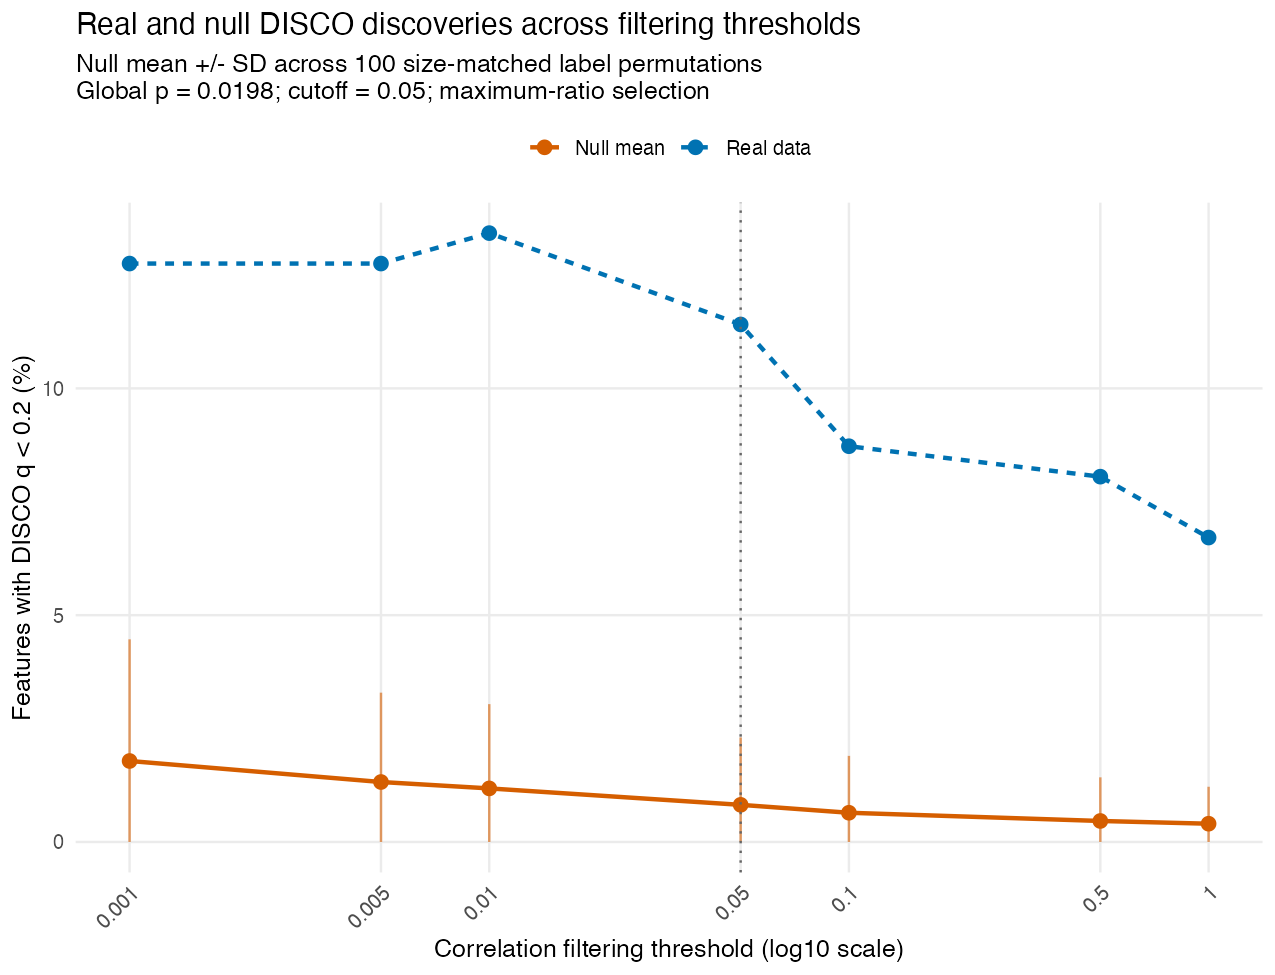
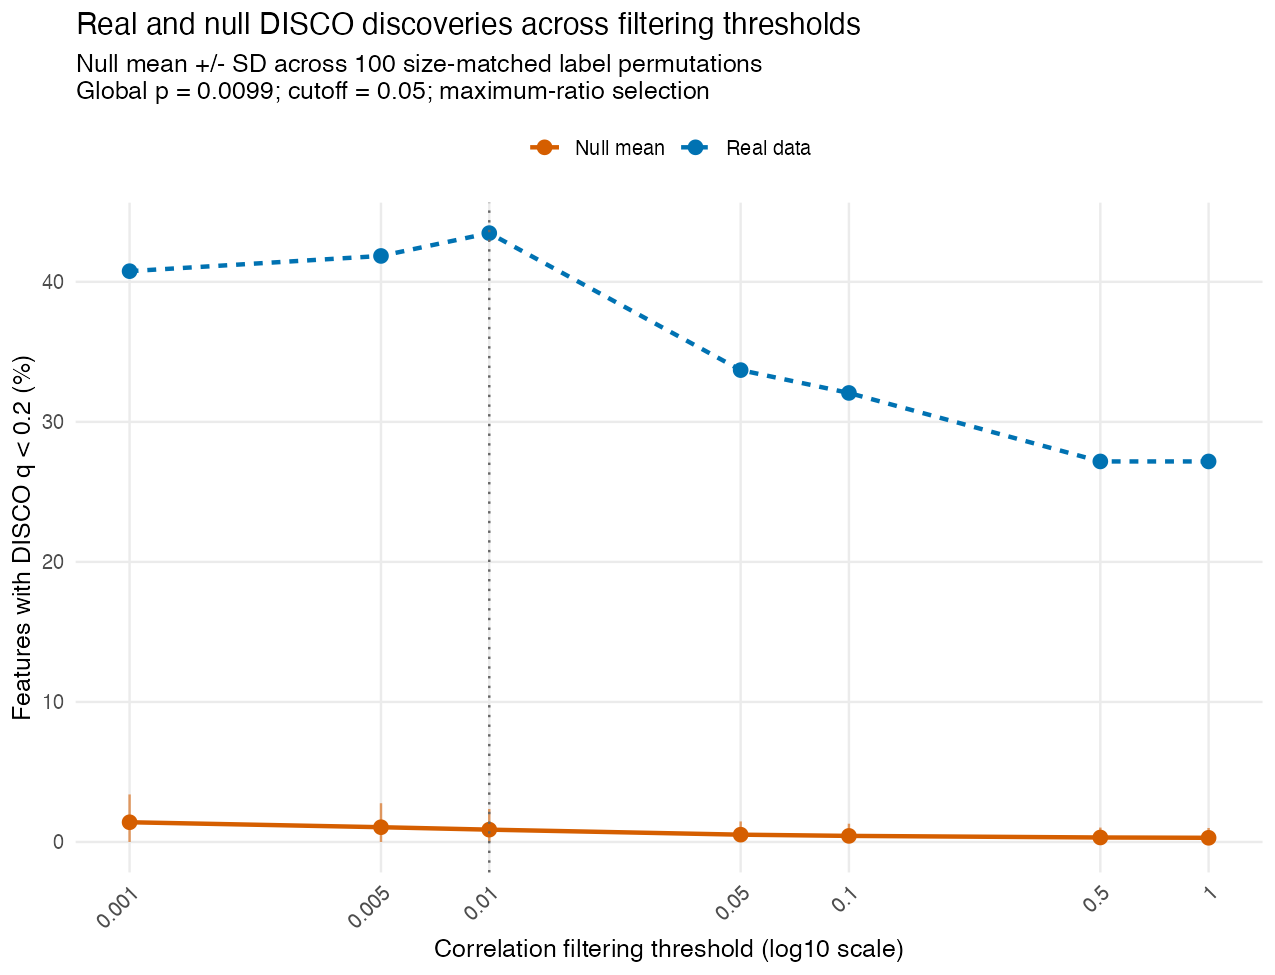
Use group-wise prevalence and covariate adjustment in Yachida examples

diff --git a/README.md b/README.md
@@ -114,16 +114,18 @@ through
 This example uses:
 
 - Relative abundances (`counts = FALSE`).
-- Features present in **≥20% of samples across the combined CRC/control
-  cohort**.
+- Features present in **≥10% of samples in each group**: a feature must
+  pass separately in both healthy controls and CRC.
 - Zero replacement with **half each feature’s minimum positive
   abundance**, estimated across that cohort after prevalence filtering.
 - **CLR normalization** within each sample, separately for each
   modality.
 - After CLR, each feature is residualized against **age, gender, and
-  BMI** in one linear model fitted across the combined CRC/control
-  cohort. **Disease is not included** in this model. The same residuals
-  feed the real comparison and all label permutations.
+  BMI** using **separate models within healthy controls and CRC**. Each
+  group has its own intercept and covariate coefficients. Models are
+  fitted once within the original groups; the resulting residuals feed
+  the real comparison and all label permutations, without refitting the
+  covariate models after shuffling.
 - 100 label permutations, q cutoff 0.2, and global p-value cutoff 0.05.
 
 Install the example dependencies if needed:
@@ -145,10 +147,11 @@ when inputs, settings, and source-code hashes match.
 ``` r
 settings <- list(
   n_resamples = 100L, random_seed = 1L, cooccur = 10L, adj_method = "BY",
-  q_value = 0.2, global_p_cutoff = 0.05, prevalence_cutoff = 0.2,
-  covariate_adjustment = "pooled ~ age + gender + BMI; no disease term"
+  q_value = 0.2, global_p_cutoff = 0.05, prevalence_cutoff = 0.1,
+  prevalence_scope = "at least 10% in each of healthy and CRC",
+  covariate_adjustment = "separate healthy and CRC models: ~ age + gender + BMI"
 )
-results_dir <- file.path(analysis_dir, "yachida_readme_adjusted_results")
+results_dir <- file.path(analysis_dir, "yachida_readme_groupwise_10pct_results")
 dir.create(results_dir, recursive = TRUE, showWarnings = FALSE)
 source_md5 <- readme_source_hashes(repo_dir)
 ```
@@ -198,20 +201,25 @@ The same preprocessing helper is used for taxa and pathways:
 
 ``` r
 # Samples are rows; features are columns. Apply independently per modality.
-preprocess_abundance <- function(x, prevalence_cutoff = 0.20) {
+preprocess_abundance <- function(x, group, prevalence_cutoff = 0.10) {
   stopifnot(
     is.matrix(x), is.numeric(x), nrow(x) > 0L, ncol(x) > 0L,
     all(is.finite(x)), all(x >= 0), all(rowSums(x) > 0),
     !is.null(rownames(x)), !anyDuplicated(rownames(x)),
     !is.null(colnames(x)), !anyDuplicated(colnames(x)),
     length(prevalence_cutoff) == 1L, is.finite(prevalence_cutoff),
-    prevalence_cutoff > 0, prevalence_cutoff <= 1
+    prevalence_cutoff > 0, prevalence_cutoff <= 1,
+    identical(rownames(x), names(group)), !anyNA(group),
+    setequal(as.character(group), c("healthy", "CRC"))
   )
 
-  # Convert the full profile to proportions, then filter across both groups.
+  # Require the prevalence cutoff separately in BOTH original groups.
   x <- sweep(x, 1, rowSums(x), "/")
-  prevalence <- colMeans(x > 0)
-  keep <- prevalence >= prevalence_cutoff
+  prevalence <- cbind(
+    healthy = colMeans(x[group == "healthy", , drop = FALSE] > 0),
+    CRC = colMeans(x[group == "CRC", , drop = FALSE] > 0)
+  )
+  keep <- apply(prevalence >= prevalence_cutoff, 1, all)
   if (sum(keep) < 2L) stop("Fewer than two features pass the prevalence filter.")
   retained <- x[, keep, drop = FALSE]
 
@@ -230,7 +238,8 @@ preprocess_abundance <- function(x, prevalence_cutoff = 0.20) {
     retained_relative_abundance = retained,
     imputed_abundance = imputed,
     prevalence = data.frame(
-      feature = names(prevalence), prevalence = unname(prevalence), retained = keep
+      feature = rownames(prevalence), prevalence, retained = unname(keep),
+      row.names = NULL
     ),
     half_minimum = data.frame(feature = names(half_min), replacement = unname(half_min))
   )
@@ -238,38 +247,49 @@ preprocess_abundance <- function(x, prevalence_cutoff = 0.20) {
 ```
 
 The covariate-adjustment helper fits a separate response model for each
-feature with a shared design matrix. Residuals keep the original sample
-and feature names.
+feature within each group. Residuals keep the original sample and
+feature names.
 
 ``` r
-# Fit one model per feature over the combined cohort, without a disease term.
-residualize_abundance <- function(clr, metadata) {
+# Fit independent age/gender/BMI models within the original disease groups.
+residualize_abundance <- function(clr, metadata, group) {
   stopifnot(identical(rownames(clr), rownames(metadata)), all(is.finite(clr)),
             is.numeric(metadata$age), is.numeric(metadata$BMI),
-            all(is.finite(metadata$age)), all(is.finite(metadata$BMI)))
-  model_data <- metadata
-  model_data$gender <- factor(trimws(as.character(model_data$gender)))
-  if (anyNA(model_data$gender) || any(!nzchar(as.character(model_data$gender))) ||
-      nlevels(model_data$gender) < 2L) {
-    stop("At least two non-missing gender levels are required.")
+            all(is.finite(metadata$age)), all(is.finite(metadata$BMI)),
+            identical(rownames(clr), names(group)), !anyNA(group),
+            setequal(as.character(group), c("healthy", "CRC")))
+  residuals <- matrix(NA_real_, nrow(clr), ncol(clr), dimnames = dimnames(clr))
+  models <- list()
+  for (group_name in c("healthy", "CRC")) {
+    rows <- which(group == group_name)
+    model_data <- metadata[rows, , drop = FALSE]
+    model_data$gender <- factor(trimws(as.character(model_data$gender)))
+    if (anyNA(model_data$gender) || any(!nzchar(as.character(model_data$gender))) ||
+        nlevels(model_data$gender) < 2L) {
+      stop("At least two non-missing gender levels are required in ", group_name, ".")
+    }
+    design <- stats::model.matrix(~ age + gender + BMI, data = model_data)
+    fit <- stats::lm.fit(design, clr[rows, , drop = FALSE])
+    if (fit$rank < ncol(design) || nrow(design) <= fit$rank) {
+      stop("Covariate model requires full rank and positive residual degrees of freedom in ",
+           group_name, ".")
+    }
+    residuals[rows, ] <- fit$residuals
+    models[[group_name]] <- list(
+      coefficients = fit$coefficients, design = design,
+      sample_ids = rownames(model_data), residual_df = nrow(design) - fit$rank
+    )
   }
-  design <- stats::model.matrix(~ age + gender + BMI, data = model_data)
-  fit <- stats::lm.fit(design, clr)
-  if (fit$rank < ncol(design) || nrow(design) <= fit$rank) {
-    stop("Covariate model must have full rank and positive residual degrees of freedom.")
-  }
-  residuals <- fit$residuals
-  dimnames(residuals) <- dimnames(clr)
   stopifnot(all(is.finite(residuals)))
-  list(residuals = residuals, coefficients = fit$coefficients,
-       design = design, residual_df = nrow(design) - fit$rank)
+  list(residuals = residuals, models = models)
 }
 ```
 
 ``` r
-taxa_prepared <- preprocess_abundance(taxa, settings$prevalence_cutoff)
+taxa_prepared <- preprocess_abundance(taxa, taxa_group, settings$prevalence_cutoff)
 taxa_adjusted <- residualize_abundance(
-  taxa_prepared$clr, sample_metadata[rownames(taxa_prepared$clr), , drop = FALSE]
+  taxa_prepared$clr, sample_metadata[rownames(taxa_prepared$clr), , drop = FALSE],
+  taxa_group
 )
 single_dir <- file.path(results_dir, "taxa")
 single_input <- list(
@@ -302,25 +322,25 @@ missing covariates.
 
 | control | CRC | retained_taxa |
 |--------:|----:|--------------:|
-|     245 | 258 |           149 |
+|     245 | 258 |           184 |
 
-Global p-value: **0.0198**. Selected threshold: **0.05**. Taxa with
-DISCO q \<0.2 at the selected threshold: **17**.
+Global p-value: **0.009901**. Selected threshold: **0.01**. Taxa with
+DISCO q \<0.2 at the selected threshold: **80**.
 
 Top 10 taxa by DISCO q-value, breaking ties by p-value:
 
-| Taxon                       | DISCO p  | DISCO q  | Comparisons |
-|:----------------------------|:---------|:---------|------------:|
-| Parvimonas micra            | 7.10e-07 | 4.62e-04 |         113 |
-| Actinomyces sp. HMSC035G02  | 1.11e-06 | 4.62e-04 |         111 |
-| \[Eubacterium\] sulci       | 2.87e-06 | 7.95e-04 |          97 |
-| Actinomyces sp. ICM47       | 5.41e-06 | 1.12e-03 |          99 |
-| Tyzzerella nexilis          | 1.70e-05 | 2.83e-03 |         114 |
-| Megamonas funiformis        | 1.80e-04 | 2.50e-02 |          78 |
-| Fusobacterium mortiferum    | 2.19e-04 | 2.61e-02 |          90 |
-| Megasphaera micronuciformis | 2.92e-04 | 3.03e-02 |          99 |
-| Odoribacter splanchnicus    | 6.11e-04 | 5.53e-02 |          85 |
-| Streptococcus vestibularis  | 6.65e-04 | 5.53e-02 |          87 |
+| Taxon                      | DISCO p  | DISCO q  | Comparisons |
+|:---------------------------|:---------|:---------|------------:|
+| Parvimonas micra           | 3.43e-07 | 3.31e-04 |         121 |
+| Fusobacterium ulcerans     | 1.08e-06 | 3.31e-04 |         133 |
+| Actinomyces sp. S6-Spd3    | 1.08e-06 | 3.31e-04 |         134 |
+| Actinomyces sp. HMSC035G02 | 1.24e-06 | 3.31e-04 |         128 |
+| Clostridium disporicum     | 5.48e-06 | 1.17e-03 |         110 |
+| Lactobacillus rogosae      | 8.43e-06 | 1.36e-03 |          95 |
+| Actinomyces sp. ICM47      | 8.93e-06 | 1.36e-03 |         119 |
+| Acidaminococcus intestini  | 1.13e-05 | 1.50e-03 |          87 |
+| \[Eubacterium\] sulci      | 1.26e-05 | 1.50e-03 |          98 |
+| Clostridium sp. CAG:299    | 1.60e-05 | 1.71e-03 |         116 |
 
 The first plot compares real discovery percentages with the null mean ±
 SD. The second shows the ratio used to select the threshold.
@@ -342,9 +362,9 @@ controls. The first modality is taxa, so the DISCO scores describe taxa
 whose relationships with pathways differ between groups. Pathways are
 unstratified community totals; `UNMAPPED` and `UNINTEGRATED` rows are
 removed. Both modalities are restricted to common usable samples, then
-prevalence-filtered and normalized separately using the same ≥20%,
+prevalence-filtered and normalized separately using the same ≥10%,
 half-minimum, CLR workflow above. **Both taxa and pathways** are then
-residualized against age, gender, and BMI using the pooled model above,
+residualized against age, gender, and BMI separately within each group,
 and DISCO compares correlations between those residuals.
 
 ``` r
@@ -362,11 +382,13 @@ two_group <- group[common_ids]
 if (any(table(factor(two_group, levels = c("healthy", "CRC"))) < settings$cooccur)) {
   stop("Each group requires at least cooccur samples.")
 }
-two_taxa <- preprocess_abundance(taxa[common_ids, , drop = FALSE], settings$prevalence_cutoff)
-two_pathways <- preprocess_abundance(pathways[common_ids, , drop = FALSE], settings$prevalence_cutoff)
+two_taxa <- preprocess_abundance(taxa[common_ids, , drop = FALSE], two_group,
+                                 settings$prevalence_cutoff)
+two_pathways <- preprocess_abundance(pathways[common_ids, , drop = FALSE], two_group,
+                                     settings$prevalence_cutoff)
 two_metadata <- sample_metadata[common_ids, , drop = FALSE]
-two_taxa_adjusted <- residualize_abundance(two_taxa$clr, two_metadata)
-two_pathways_adjusted <- residualize_abundance(two_pathways$clr, two_metadata)
+two_taxa_adjusted <- residualize_abundance(two_taxa$clr, two_metadata, two_group)
+two_pathways_adjusted <- residualize_abundance(two_pathways$clr, two_metadata, two_group)
 two_dir <- file.path(results_dir, "taxa_pathways")
 two_input <- list(
   data1 = list(two_taxa_adjusted$residuals[two_group == "healthy", , drop = FALSE],
@@ -396,7 +418,7 @@ if (is.null(two)) {
 
 | control | CRC | retained_taxa | retained_pathways |
 |--------:|----:|--------------:|------------------:|
-|     245 | 258 |           149 |               385 |
+|     245 | 258 |           184 |               404 |
 
 Global p-value: **1**. Selected threshold: **1**. Taxa with DISCO q
 \<0.2 at the selected threshold: **0**.
@@ -408,16 +430,16 @@ does not establish significance; use the reported q-values.
 
 | Taxon                          | DISCO p  | DISCO q | Comparisons |
 |:-------------------------------|:---------|:--------|------------:|
-| Adlercreutzia equolifaciens    | 1.21e-02 | 1e+00   |         385 |
-| Actinomyces sp. oral taxon 181 | 1.62e-02 | 1e+00   |         385 |
-| Parvimonas micra               | 1.91e-02 | 1e+00   |         385 |
-| Escherichia coli               | 2.36e-02 | 1e+00   |         385 |
-| Bifidobacterium longum         | 2.96e-02 | 1e+00   |         385 |
-| Mogibacterium diversum         | 4.36e-02 | 1e+00   |         385 |
-| Odoribacter splanchnicus       | 5.05e-02 | 1e+00   |         385 |
-| Roseburia hominis              | 5.44e-02 | 1e+00   |         385 |
-| Clostridium bolteae CAG:59     | 5.56e-02 | 1e+00   |         385 |
-| Enterocloster aldenensis       | 5.81e-02 | 1e+00   |         385 |
+| Parvimonas micra               | 1.05e-02 | 1e+00   |         404 |
+| Bifidobacterium longum         | 1.32e-02 | 1e+00   |         404 |
+| Actinomyces sp. HMSC035G02     | 1.86e-02 | 1e+00   |         404 |
+| Odoribacter splanchnicus       | 3.45e-02 | 1e+00   |         404 |
+| Erysipelatoclostridium ramosum | 3.56e-02 | 1e+00   |         404 |
+| Mogibacterium diversum         | 4.18e-02 | 1e+00   |         404 |
+| Enterocloster clostridioformis | 4.71e-02 | 1e+00   |         404 |
+| Streptococcus sp. A12          | 4.86e-02 | 1e+00   |         404 |
+| Adlercreutzia equolifaciens    | 5.21e-02 | 1e+00   |         404 |
+| Enterocloster aldenensis       | 5.93e-02 | 1e+00   |         404 |
 
 <img src="man/figures/README-yachida-taxa_pathways-discovery_plot.png" width="100%" />
 
@@ -451,13 +473,13 @@ Rscript analysis/run_yachida_readme_examples.R
 This requires the example dependencies and `pkgload`, may download
 resources through ExperimentHub, and reuses existing results only when
 inputs and settings and source hashes match. Set
-`DISCO_README_RECOMPUTE=true` to recompute both examples. Adjusted
-results stay under `analysis/yachida_readme_adjusted_results/`; previous
-unadjusted results are retained. The README bundle contains only cohort
-summaries and top-result tables. Package checks can be run with
-`devtools::test()` and `devtools::check()`. Preprocessing and
-residualization helpers can be checked without downloading data using
-`Rscript analysis/test_yachida_readme_helpers.R`.
+`DISCO_README_RECOMPUTE=true` to recompute both examples. Results stay
+under `analysis/yachida_readme_groupwise_10pct_results/`; previous
+pooled-adjustment and unadjusted results are retained. The README bundle
+contains only cohort summaries and top-result tables. Package checks can
+be run with `devtools::test()` and `devtools::check()`. Preprocessing
+and residualization helpers can be checked without downloading data
+using `Rscript analysis/test_yachida_readme_helpers.R`.
 
 ## License
 
